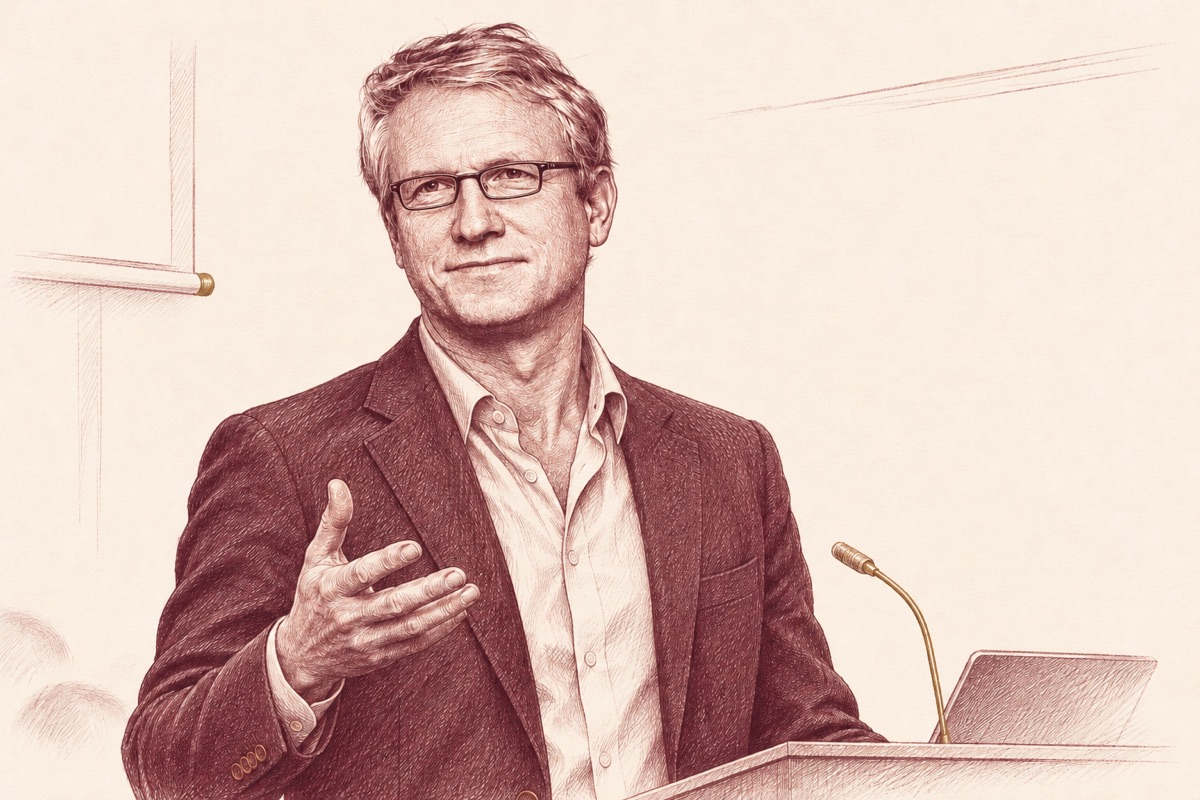
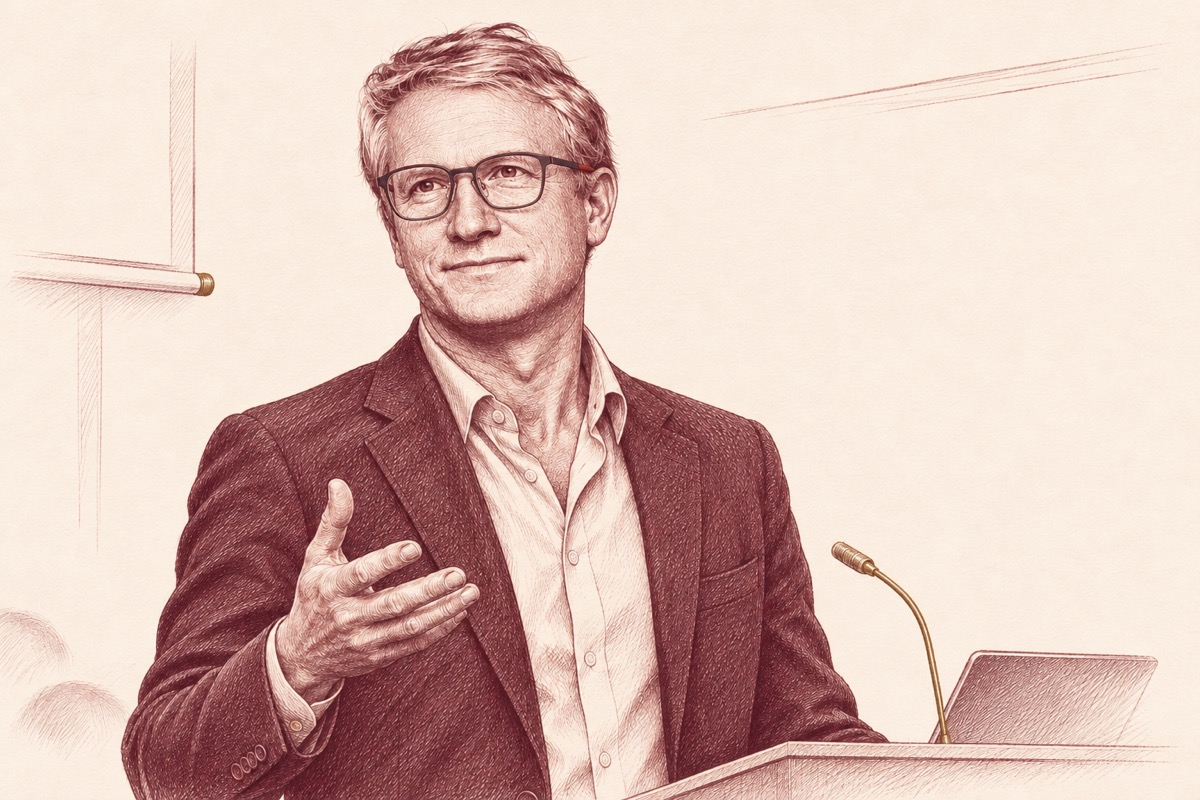
Fit the speaker illustration with Ørgreen Powerage frames

diff --git a/speaker.css b/speaker.css
@@ -6,7 +6,7 @@
   flex-direction: column;
   justify-content: center;
   background: linear-gradient(to right, transparent 33%, var(--paper) 51%),
-    url("assets/speaker-presenting.jpg") left top / auto 100% no-repeat;
+    url("assets/speaker-presenting.jpg?v=powerage") left top / auto 100% no-repeat;
 }
 .speaker-intro h1 { font-size: clamp(2.4rem, 4.3vw, 3.8rem); }
 .speaker-intro .lead { margin-bottom: 0; }
@@ -21,7 +21,7 @@
     content: "";
     display: block;
     aspect-ratio: 3 / 2;
-    background: url("assets/speaker-presenting.jpg") center / cover;
+    background: url("assets/speaker-presenting.jpg?v=powerage") center / cover;
     margin-bottom: 1.5rem;
   }
 }

diff --git a/speaker.html b/speaker.html
@@ -6,7 +6,7 @@
     <meta name="description" content="Speaking topics and media expertise by Steffen Giessner." />
     <title>Speaker | Giessner</title>
     <link rel="stylesheet" href="styles.css?v=srg-ligature" />
-    <link rel="stylesheet" href="speaker.css" />
+    <link rel="stylesheet" href="speaker.css?v=powerage" />
     <script src="app.js" defer></script>
   </head>
   <body>
